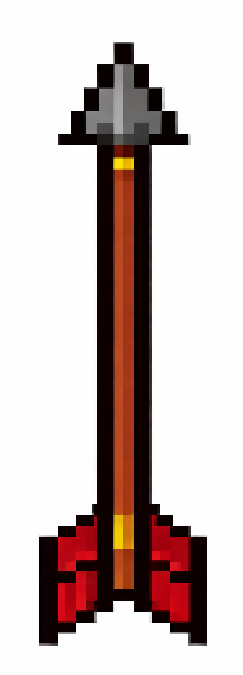
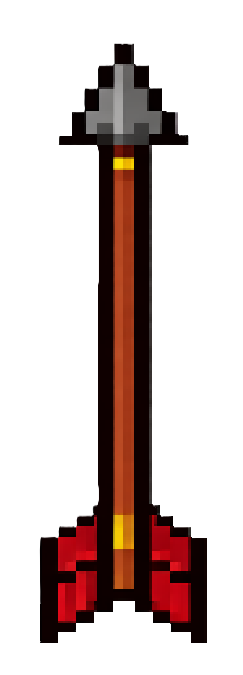
Kolizja goblinów z elfem, ich dotarcie do dołu ekranu a także aktualizacja grafik elfa na te zdarzenia

diff --git a/goblin_invasion.py b/goblin_invasion.py
@@ -3,8 +3,10 @@ import pygame
 import math
 
 from settings import Settings
+from game_stats import GameStats
 from elf import Elf
 from arrow import Arrow
+from goblin import Goblin
 
 class GoblinInvasion:
     """Ogólna klasa przeznaczona do zarządzania zasobami i sposobem działania gry."""
@@ -31,8 +33,14 @@ class GoblinInvasion:
         self.scroll = 0
         self.tiles = math.ceil(self.settings.screen_height / self.bg.get_height()) + 1
 
+        #Egzemplarz danych statystycznych
+        self.stats = GameStats(self)
+
         self.elf = Elf(self)
         self.arrow = pygame.sprite.Group()
+        self.goblins = pygame.sprite.Group()
+
+        self._create_army()
 
     def run_game(self):
         """Rozpoczęcie pętli głównej gry"""
@@ -41,6 +49,7 @@ class GoblinInvasion:
             self.elf.update()
             self.arrow.update()
             self._update_arrows()
+            self._update_goblins()
             self._update_screen()
             self.clock.tick(60)
 
@@ -60,6 +69,10 @@ class GoblinInvasion:
             self.elf.moving_right = True
         elif event.key == pygame.K_LEFT:
             self.elf.moving_left = True
+        elif event.key == pygame.K_UP:
+            self.elf.moving_top = True
+        elif event.key == pygame.K_DOWN:
+            self.elf.moving_bottom = True
         elif event.key == pygame.K_q:
             sys.exit()
         elif event.key == pygame.K_SPACE:
@@ -71,6 +84,10 @@ class GoblinInvasion:
             self.elf.moving_right = False
         elif event.key == pygame.K_LEFT:
             self.elf.moving_left = False
+        elif event.key == pygame.K_UP:
+            self.elf.moving_top = False
+        elif event.key == pygame.K_DOWN:
+            self.elf.moving_bottom = False
 
     def _fire_arrow(self):
         """Tworzy nową strzałę i dodaje ją do grupy"""
@@ -87,7 +104,19 @@ class GoblinInvasion:
         for arrow in self.arrow.copy():
             if arrow.rect.bottom <= 0:
                 self.arrow.remove(arrow)
+
+        self._check_arrow_goblin_collisions()
+
+    def _check_arrow_goblin_collisions(self):
+        """Reakcja na kolizję między strzałą a goblinem"""
+        #Sprawdzenie trafienia i jeżeli wystąpiło, usunięcie strzały i przeciwnika
+        collisions = pygame.sprite.groupcollide(self.arrow, self.goblins, True, True)
     
+        if not self.goblins:
+            #Pozbycie się istniejących strzał i utworzenie nowej armi
+            self.arrow.empty()
+            self._create_army()
+
     def _update_screen(self):
         """Uaktualnienie obrazów na ekranie i przejście do nowego ekranu."""
         #Rysowanie przewijalnego tła
@@ -100,11 +129,91 @@ class GoblinInvasion:
             self.scroll = 0
 
         self.elf.blitme()
+        self.goblins.draw(self.screen)
 
         for arrow in self.arrow.sprites():
             arrow.draw_arrow()
 
         pygame.display.flip()
+
+    def _elf_hit(self):
+        """Reakcja na uderzenie goblina w elfa"""
+        self.stats.elfs_left -= 1
+
+        self.elf.killed_elf(2, self._update_screen)
+
+        self.arrow.empty()
+        self.goblins.empty()
+
+        self._create_army()
+        self.elf.center_elf()
+
+    def _forest_lost(self):
+        """Reakcja na przejęcie lasu"""
+        self.stats.elfs_left -= 1
+
+        self.elf.forest_lost(2, self._update_screen)
+
+        self.arrow.empty()
+        self.goblins.empty()
+
+        self._create_army()
+        self.elf.center_elf()
+
+    def _check_goblins_bottom(self):
+        """Sprawdzenie czy goblin dotarł do dolnej krawędzi ekranu"""
+        for goblin in self.goblins.sprites():
+            if goblin.rect.bottom >= self.settings.screen_height:
+                self._forest_lost()
+                break
+
+    def _create_army(self):
+        """Utworzenie armi goblinów"""
+        goblin = Goblin(self)
+        goblin_width, goblin_height = goblin.rect.size
+
+        current_x, current_y = goblin_width, goblin_height
+        while current_y < (self.settings.screen_height - 5 * goblin_height):
+            while current_x < (self.settings.screen_width - 2 * goblin_width): #Gdyby ograniczyć się do pierwszej części nawiasu, jeden goblin będzie za prawą stroną ekranu, stąd margines
+                self._create_goblin(current_x, current_y)
+                current_x += 2 * goblin_width
+
+            #Wyzerowanie x oraz zejście niżej y przy końcu rzędu
+            current_x = goblin_width
+            current_y += 2 * goblin_height
+
+    def _create_goblin(self, x_position, y_position):
+        """Tworzenie goblina w rzędzie"""
+        new_goblin = Goblin(self)
+        new_goblin.x = x_position
+        new_goblin.rect.x = x_position
+        new_goblin.rect.y = y_position
+        self.goblins.add(new_goblin)
+    
+    def _update_goblins(self):
+        """Uaktualnienie położenia goblinów"""
+        self._check_army_edges()
+        self.goblins.update()
+
+        if pygame.sprite.spritecollideany(self.elf, self.goblins):
+            print("Elfi łucznik został pokonany!!!")
+            self._elf_hit()
+
+        #Wyszukanie goblinów którzy przekroczą las
+        self._check_goblins_bottom()
+
+    def _check_army_edges(self):
+        """Reakcja na dotarcie goblina do krawędzi"""
+        for goblin in self.goblins.sprites():
+            if goblin.check_edges():
+                self._change_army_direction()
+                break
+
+    def _change_army_direction(self):
+        """Przesunięcie armi w dó i zmiana kierunku jej poruszania się"""
+        for goblin in self.goblins.sprites():
+            goblin.rect.y += self.settings.army_drop_speed
+        self.settings.army_direction *= -1
 
 if __name__ == '__main__':
     gi = GoblinInvasion()

diff --git a/elf.py b/elf.py
@@ -9,7 +9,16 @@ class Elf:
         self.settings = gi_game.settings
         self.screen_rect = gi_game.screen.get_rect()
 
-        self.image = pygame.image.load('images/elf.bmp')
+        #Ładowanie obrazów elfa i ich transformacja
+        self.image = pygame.image.load('images/elf.png')
+        base_w, base_h = self.image.get_size()
+
+        self.image_dead = pygame.image.load('images/dead_elf.png')
+        self.image_dead = pygame.transform.scale(self.image_dead, (base_w * 1.5, base_h * 1.5))
+
+        self.image_scared = pygame.image.load('images/elf_scared.png')
+        self.image_scared = pygame.transform.scale(self.image_scared, (base_w * 1.5, base_h * 1.5))
+
         self.rect = self.image.get_rect()
 
         #Każdy nowy elf będzie na środku dołu ekranu
@@ -17,22 +26,58 @@ class Elf:
 
         #Położenie poziome elfa jest przechowywane w postaci liczby zmiennoprzecinkowej
         self.x = float(self.rect.x)
+        self.y = float(self.rect.y)
 
-        #Opcje wskazujące na porszuanie się statku
+        #Opcje wskazujące na porszuanie się elfa
         self.moving_right = False
         self.moving_left = False
+        self.moving_top = False
+        self.moving_bottom = False
     
     def update(self):
-        """Aktualizacja położenia statku na podstawie flag"""
+        """Aktualizacja położenia elfa na podstawie flag"""
         if self.moving_right and self.rect.right < self.screen_rect.right:
             self.x += self.settings.elf_speed
         if self.moving_left and self.rect.left > 0:
             self.x -= self.settings.elf_speed
+        if self.moving_top and self.rect.top > 0:
+            self.y -= self.settings.elf_speed
+        if self.moving_bottom and self.rect.bottom < self.screen_rect.bottom:
+            self.y += self.settings.elf_speed
 
         #Uaktualnienie obiektu rect na podstawie wartości self.x
         self.rect.x = self.x
+        self.rect.y = self.y
 
     def blitme(self):
         self.screen.blit(self.image, self.rect)
+
+    def center_elf(self):
+        """Umieszczenie elfa na środku dolnej części ekranu"""
+        self.rect.midbottom = self.screen_rect.midbottom
+        self.x = float(self.rect.x)
+        self.y = float(self.rect.y)
+
+    def killed_elf(self, pause_time=2, draw_callback=None):
+        """Wyświetlenie grafiki martwego elfa przez czas pauzy"""
+        self.image = self.image_dead
+        if draw_callback is not None:
+            draw_callback()
+        else:
+            self.blitme()
+            pygame.display.flip()
+        pygame.time.delay(int(pause_time * 1000))
+        self.image = pygame.image.load('images/elf.png')
+
+    def forest_lost(self, pause_time=2, draw_callback=None):
+        """Wyświetlenie grafiki martwego elfa przez czas pauzy"""
+        self.image = self.image_scared
+        if draw_callback is not None:
+            draw_callback()
+        else:
+            self.blitme()
+            pygame.display.flip()
+        pygame.time.delay(int(pause_time * 1000))
+        self.image = pygame.image.load('images/elf.png')
 
 

diff --git a/goblin.py b/goblin.py
@@ -1,0 +1,34 @@
+import pygame
+from pygame.sprite import Sprite
+
+class Goblin(Sprite):
+    """Utworzenie pojedynczego przeciwnika."""
+
+    def __init__(self, gi_game):
+        """Inicjacja i początkowe położenie."""
+        super().__init__()
+        self.screen = gi_game.screen
+        self.settings = gi_game.settings
+
+        #Wczytanie obraazu i definicja atrybutu rect
+        self.image = pygame.image.load('images/goblin_green.png')
+        w, h = self.image.get_size()
+        self.image = pygame.transform.scale(self.image, (w / 4, h / 4))
+        self.rect = self.image.get_rect()
+
+        #Umieszczenie goblina w pobliżu lewego górnego rogu
+        self.rect.x = self.rect.width
+        self.rect.y = self.rect.height
+
+        #Przechowywanie dokładnego poziomego położenia obcego
+        self.x = float(self.rect.x)
+    
+    def check_edges(self):
+        """Zwraca True jeżeli goblin dotrze do krawędzi ekranu"""
+        screen_rect = self.screen.get_rect()
+        return (self.rect.right >= screen_rect.right) or (self.rect.left <= 0) 
+
+    def update(self):
+        """Przesuwanie goblina w prawo"""
+        self.x += self.settings.goblin_speed * self.settings.army_direction
+        self.rect.x = self.x

diff --git a/settings.py b/settings.py
@@ -9,12 +9,19 @@ class Settings:
         self.bg_color = (34, 139, 34)
 
         #Ustawienia elfa
-        self.elf_speed = 5.0
+        self.elf_speed = 4.0
+        self.elf_limit = 3
 
         #Ustawienia strzały
         self.arrow_speed = 6.0
-        self.arrow_width = 3
-        self.arrow_height = 15
+        self.arrow_width = 6
+        self.arrow_height = 20
         self.arrow_color = (150, 75, 0)
-        self.arrow_allowed = 10
+        self.arrow_allowed = 8
+
+        #Ustawienia goblina
+        self.goblin_speed = 1.5
+        self.army_drop_speed = 20
+        #direction 1 ruch w prawo, -1 ruch w lewo
+        self.army_direction = 1
 

diff --git a/game_stats.py b/game_stats.py
@@ -1,0 +1,13 @@
+class GameStats:
+    """Monitorowanie danych statystycznych w grze"""
+
+    def __init__(self, gi_game):
+        """Inicjalizacja danych statystycznych"""
+        self.settings = gi_game.settings
+        self.reset_stats()
+
+    def reset_stats(self):
+        """
+        Inicjalizacja danych statystycznych, które mogą zmienić się w trakcie gry
+        """
+        self.elfs_left = self.settings.elf_limit

diff --git a/README.md b/README.md
@@ -1,1 +1,2 @@
-Goblin invasion game based on a project by Eric Matthes from Python Crashcourse book
+##Goblin Invasion Game.
+#Based on a project by Eric Matthes from Python Crashcourse book.
